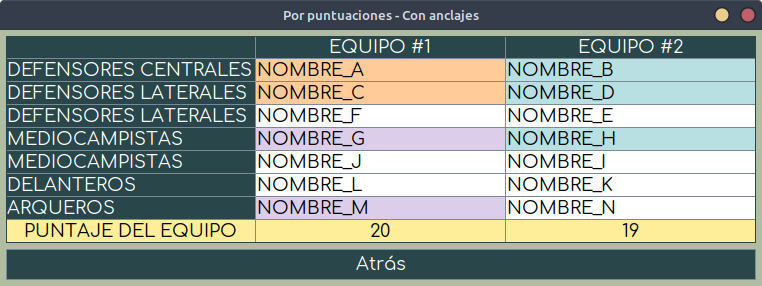
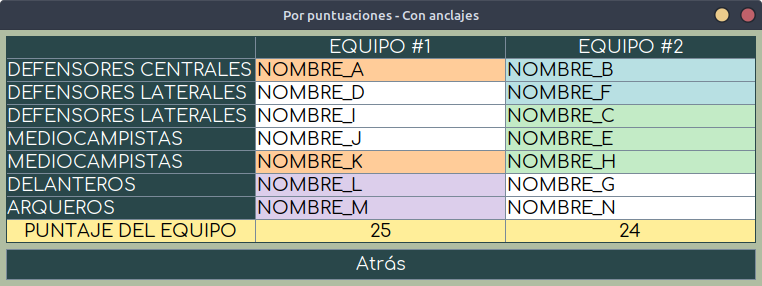
updated readme & screenshot

diff --git a/README.md b/README.md
@@ -122,4 +122,4 @@ Si el programa presenta algún error que debería ser reportado para arreglarlo,
 *Ejemplo de resultado de distribución por puntuaciones sin anclajes*
 
 ![ventana_resultados_4](./src/main/res/img/readme/ss9.png)\
-**Ejemplo de resultado de distribución por puntuaciones con tres anclajes distintos*
+*Ejemplo de resultado de distribución por puntuaciones con cuatro anclajes distintos*
